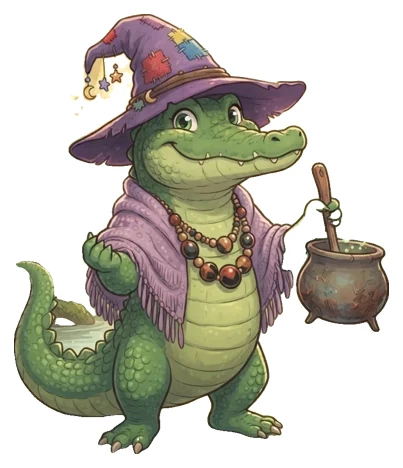
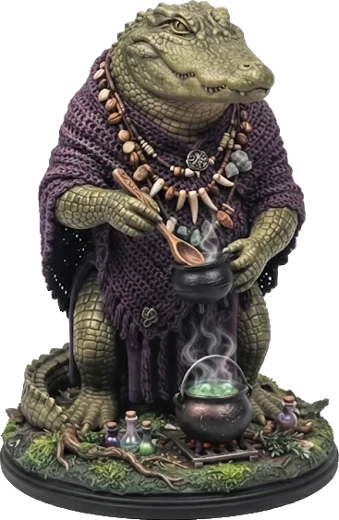
Reino dos Dados: miniaturas de colecionador e fundo de mesa
Personagens refeitos como miniaturas pintadas (recortadas do fundo
branco) e mesa de nogueira gerada no Gemini como fundo do jogo.

Claude-Session: https://claude.ai/code/session_01W1tJzrLU22MztW5Nw4q7FN

diff --git a/reino-dos-dados/style.css b/reino-dos-dados/style.css
@@ -292,3 +292,6 @@ select, input { background: #1e1812; border: 1px solid #6b5532; }
 #diceSum, .ctop #diceSum { background: var(--ivory); color: #1c140a; box-shadow: 0 2px 0 #8a7550; font-family: var(--display); }
 #diceSum.dbl { background: linear-gradient(180deg, #ecd28e, #c49a4a); }
 #toast { background: var(--ivory); color: #1c140a; border: 1px solid #c49a4a; font-family: var(--display); }
+/* miniaturas: zoom no rosto dentro dos círculos */
+.av .chimg:not(.big) { transform: scale(1.7); transform-origin: 50% 6%; }
+.seat .av, .pcard .av { background: radial-gradient(circle at 50% 30%, #f4ead3, #cdbb94) !important; }

diff --git a/reino-dos-dados/view3d.js b/reino-dos-dados/view3d.js
@@ -444,7 +444,7 @@ const View = (() => {
       tex.encoding = T.sRGBEncoding;
       m.map = tex;
       m.needsUpdate = true;
-      const h = 1.05;
+      const h = 1.2;
       sp.scale.set(h * tex.image.width / tex.image.height, h, 1);
     });
     g.add(sp);
